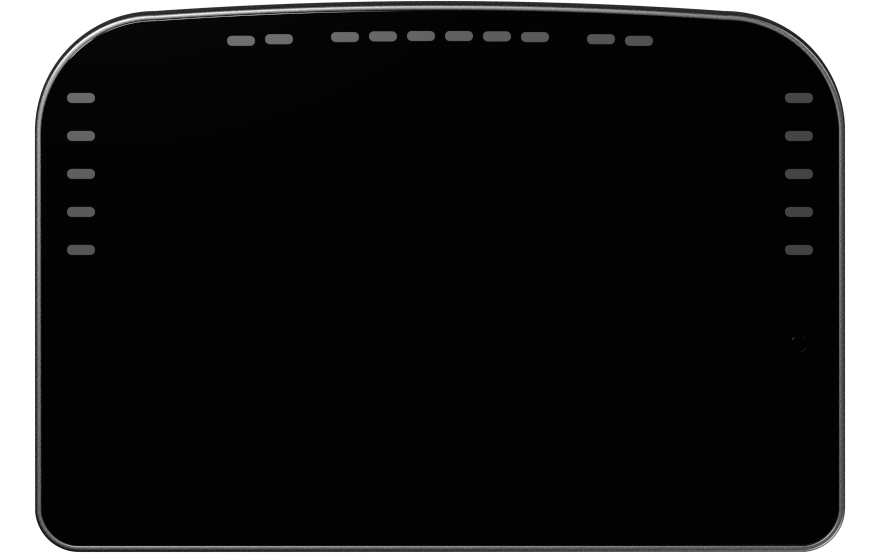
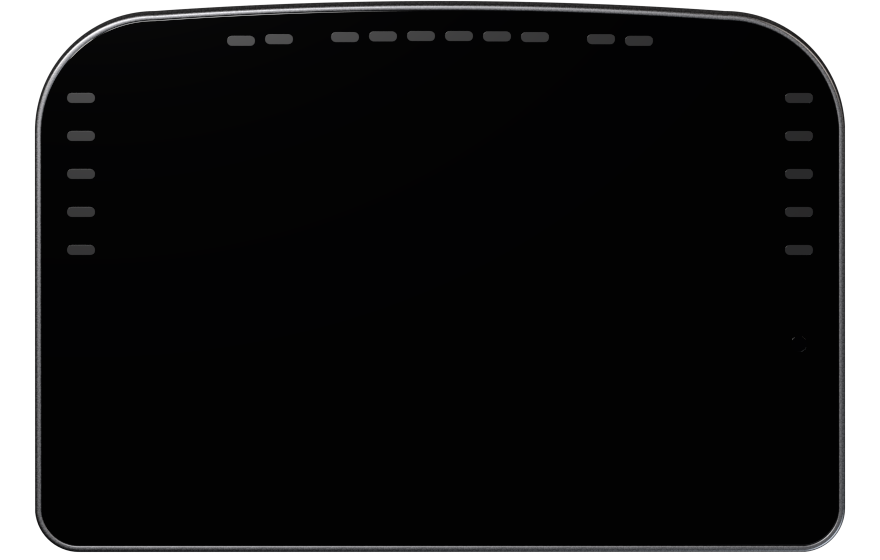
BoschDdu: housing build 3 (darker smoked lenses)
Rendered on the cloud lane from the recipe at aaa0c80 (3 min 10 s pod,
about $0.05). An unlit side lens drops from relative luminance 0.055-0.091
to 0.022-0.036 (sRGB 41-53), so a lit side LED stands over 5:1 above it.
p95 0.015-0.023, screen p99 0.0009-0.0016, as before. The runtime files are
the Drive masters box-filtered by the recipe's own box_filter; their SHA-256s
match the PC's build.

diff --git a/assets/clusters/bosch_ddu/ASSETS.md b/assets/clusters/bosch_ddu/ASSETS.md
@@ -7,9 +7,9 @@ Built by `cargo run --release -p asset-forge -- --lane cloud --masters bosch_ddu
 | File | Kind | Size | Bytes | Generator (recipe + seed) | Licence | Used for |
 |---|---|---|---|---|---|---|
 | (no runtime file: rendered into the housing) | seamless bead-blast texture | 4096x4096 | master | comfyui:bosch_ddu::BEAD_BLAST (SDXL base 1.0 + refiner when installed, 1024², dpmpp_2m karras, half-offset seam repaint at denoise 0.55, 4x-UltraSharp) seed=71207 prompt="extreme macro photograph of bead blasted anodised aluminium, fine uniform matte satin grain of tiny glass bead impact pits, a completely flat metal surface filling the whole frame, top-down, even soft diffuse light, seamless tileable texture, physically based material scan, neutral grey", then neutral (luminance, mean 0.5, deviation 0.08 over a 48 px window) | CreativeML Open RAIL++-M output (SDXL); MIT (asset-forge) | the anodised body's colour and roughness variation and its faint bump (one repeat per 80 px). Master `bosch_ddu_bead_blast_neutral_a443e36f330a.png` |
-| `housing_0.png` | the DDU 10 housing: anodised body, black glass face, 10 + 5 + 5 smoked lenses, light sensor; key at -135° (sRGB, straight alpha) | 880x560 | 62 KB | blender:hero (bosch_ddu::housing_scene, Cycles 384 samples, ortho at 2 px per 4K px over x -440..440, y -320..240, box-filtered to 1:1; the housing's rig (no softbox over the face, no HDRI) at 0.6 power; body sheared 3 px for the driver's eye) seed=0; luminance p95 0.019, screen p99 0.0011 | MIT (asset-forge) | drawn at full strength under the live screen and LEDs; the cluster cross-fades the azimuths with the virtual light. Master `housing/beauty_0.png` |
-| `housing_1.png` | the DDU 10 housing: anodised body, black glass face, 10 + 5 + 5 smoked lenses, light sensor; key at -160° (sRGB, straight alpha) | 880x560 | 66 KB | blender:hero (bosch_ddu::housing_scene, Cycles 384 samples, ortho at 2 px per 4K px over x -440..440, y -320..240, box-filtered to 1:1; the housing's rig (no softbox over the face, no HDRI) at 0.6 power; body sheared 3 px for the driver's eye) seed=0; luminance p95 0.016, screen p99 0.0016 | MIT (asset-forge) | drawn at full strength under the live screen and LEDs; the cluster cross-fades the azimuths with the virtual light. Master `housing/beauty_1.png` |
-| `housing_2.png` | the DDU 10 housing: anodised body, black glass face, 10 + 5 + 5 smoked lenses, light sensor; key at -110° (sRGB, straight alpha) | 880x560 | 61 KB | blender:hero (bosch_ddu::housing_scene, Cycles 384 samples, ortho at 2 px per 4K px over x -440..440, y -320..240, box-filtered to 1:1; the housing's rig (no softbox over the face, no HDRI) at 0.6 power; body sheared 3 px for the driver's eye) seed=0; luminance p95 0.023, screen p99 0.0009 | MIT (asset-forge) | drawn at full strength under the live screen and LEDs; the cluster cross-fades the azimuths with the virtual light. Master `housing/beauty_2.png` |
+| `housing_0.png` | the DDU 10 housing: anodised body, black glass face, 10 + 5 + 5 smoked lenses, light sensor; key at -135° (sRGB, straight alpha) | 880x560 | 61 KB | blender:hero (bosch_ddu::housing_scene, Cycles 384 samples, ortho at 2 px per 4K px over x -440..440, y -320..240, box-filtered to 1:1; the housing's rig (no softbox over the face, no HDRI) at 0.6 power; body sheared 3 px for the driver's eye) seed=0; luminance p95 0.018, screen p99 0.0011 | MIT (asset-forge) | drawn at full strength under the live screen and LEDs; the cluster cross-fades the azimuths with the virtual light. Master `housing/beauty_0.png` |
+| `housing_1.png` | the DDU 10 housing: anodised body, black glass face, 10 + 5 + 5 smoked lenses, light sensor; key at -160° (sRGB, straight alpha) | 880x560 | 65 KB | blender:hero (bosch_ddu::housing_scene, Cycles 384 samples, ortho at 2 px per 4K px over x -440..440, y -320..240, box-filtered to 1:1; the housing's rig (no softbox over the face, no HDRI) at 0.6 power; body sheared 3 px for the driver's eye) seed=0; luminance p95 0.015, screen p99 0.0016 | MIT (asset-forge) | drawn at full strength under the live screen and LEDs; the cluster cross-fades the azimuths with the virtual light. Master `housing/beauty_1.png` |
+| `housing_2.png` | the DDU 10 housing: anodised body, black glass face, 10 + 5 + 5 smoked lenses, light sensor; key at -110° (sRGB, straight alpha) | 880x560 | 60 KB | blender:hero (bosch_ddu::housing_scene, Cycles 384 samples, ortho at 2 px per 4K px over x -440..440, y -320..240, box-filtered to 1:1; the housing's rig (no softbox over the face, no HDRI) at 0.6 power; body sheared 3 px for the driver's eye) seed=0; luminance p95 0.023, screen p99 0.0009 | MIT (asset-forge) | drawn at full strength under the live screen and LEDs; the cluster cross-fades the azimuths with the virtual light. Master `housing/beauty_2.png` |
 
 ## 4K masters (Google Drive, `FH6 WheelDash v2 - 4K Masters/bosch_ddu/`)
 
